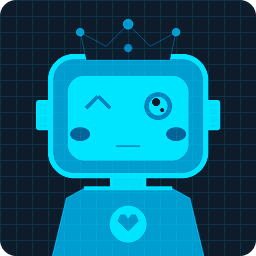
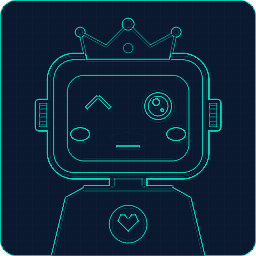
fix(filters): enforce dark outline retention in gameboy and retro pixel filters

diff --git a/src/bot_face/filters.py b/src/bot_face/filters.py
@@ -2,17 +2,12 @@
 
 from __future__ import annotations
 
-from typing import TYPE_CHECKING
-
 from PIL import Image, ImageDraw, ImageEnhance, ImageFilter, ImageOps
 
-if TYPE_CHECKING:
-    pass
-
 AVAILABLE_FILTERS: dict[str, str] = {
-    "8bit": "Classic chunky 8-bit retro arcade / NES pixel art style",
-    "16bit": "16-bit SNES / Genesis arcade pixel art style with dithering",
-    "gameboy": "Classic 4-shade olive green Nintendo Game Boy DMG-01 LCD screen",
+    "8bit": "Classic chunky 8-bit retro arcade / NES pixel art style with bold outlines",
+    "16bit": "16-bit SNES / Genesis arcade pixel art style with dithering and outline retention",
+    "gameboy": "Classic 4-shade olive green Nintendo Game Boy DMG-01 LCD screen with dark outlines",
     "crt": "Retro arcade CRT television monitor with horizontal scanlines",
     "blueprint": "Technical cyan/navy architectural blueprint style",
     "monochrome": "High-contrast clean black & white grayscale",
@@ -23,10 +18,10 @@ AVAILABLE_FILTERS: dict[str, str] = {
 
 # 4 classic Game Boy DMG-01 palette colors (darkest to lightest)
 GAMEBOY_PALETTE = [
-    (15, 56, 15),  # #0F380F
-    (48, 98, 48),  # #306230
-    (139, 172, 15),  # #8BAC0F
-    (155, 188, 15),  # #9BBC0F
+    (15, 56, 15),  # #0F380F (deepest dark green - outline / dark shadow)
+    (48, 98, 48),  # #306230 (dark olive green - shadow / accents)
+    (139, 172, 15),  # #8BAC0F (mid lime green - chassis / midtones)
+    (155, 188, 15),  # #9BBC0F (light greenish yellow - background / highlights)
 ]
 
 
@@ -36,23 +31,31 @@ def list_filters() -> list[str]:
 
 
 def apply_8bit_filter(img: Image.Image) -> Image.Image:
-    """Transform image into chunky 8-bit pixel art with 16-color quantization."""
+    """Transform image into 8-bit pixel art with 16-color quantization and outlines."""
     orig_w, orig_h = img.size
-    grid_size = 32
+    grid_size = 48
 
-    # Separate alpha channel
     rgba = img.convert("RGBA")
     r, g, b, a = rgba.split()
     rgb = Image.merge("RGB", (r, g, b))
 
-    # Downscale RGB with box sampling
-    small_rgb = rgb.resize((grid_size, grid_size), Image.Resampling.BILINEAR)
-    # Quantize to 16 colors
-    quantized = small_rgb.quantize(colors=16, method=Image.Quantize.MEDIANCUT).convert("RGB")
-    # Upscale back to original dimensions with nearest neighbor
-    pixelated_rgb = quantized.resize((orig_w, orig_h), Image.Resampling.NEAREST)
+    # Detect dark lines and contours in high-res
+    gray = ImageOps.grayscale(rgb)
+    dark_mask = gray.point(lambda p: 255 if p < 70 else 0, mode="1")
+    small_dark = dark_mask.resize((grid_size, grid_size), Image.Resampling.NEAREST)
 
-    # Downscale & upscale alpha with nearest neighbor to preserve crisp pixel edges
+    small_rgb = rgb.resize((grid_size, grid_size), Image.Resampling.BILINEAR)
+    quantized_rgb = small_rgb.quantize(
+        colors=16, method=Image.Quantize.FASTOCTREE, dither=Image.Dither.FLOYDSTEINBERG
+    ).convert("RGB")
+
+    # Enforce crisp dark outlines
+    for y in range(grid_size):
+        for x in range(grid_size):
+            if small_dark.getpixel((x, y)):
+                quantized_rgb.putpixel((x, y), (20, 20, 30))
+
+    pixelated_rgb = quantized_rgb.resize((orig_w, orig_h), Image.Resampling.NEAREST)
     small_a = a.resize((grid_size, grid_size), Image.Resampling.NEAREST)
     pixelated_a = small_a.resize((orig_w, orig_h), Image.Resampling.NEAREST)
 
@@ -61,7 +64,7 @@ def apply_8bit_filter(img: Image.Image) -> Image.Image:
 
 
 def apply_16bit_filter(img: Image.Image) -> Image.Image:
-    """Transform image into 16-bit arcade pixel art with 64-color dithering."""
+    """Transform image into 16-bit SNES arcade pixel art with dithering and outlines."""
     orig_w, orig_h = img.size
     grid_size = 64
 
@@ -69,14 +72,22 @@ def apply_16bit_filter(img: Image.Image) -> Image.Image:
     r, g, b, a = rgba.split()
     rgb = Image.merge("RGB", (r, g, b))
 
-    small_rgb = rgb.resize((grid_size, grid_size), Image.Resampling.BILINEAR)
-    quantized = small_rgb.quantize(
-        colors=64,
-        method=Image.Quantize.MAXCOVERAGE,
-        dither=Image.Dither.FLOYDSTEINBERG,
-    ).convert("RGB")
-    pixelated_rgb = quantized.resize((orig_w, orig_h), Image.Resampling.NEAREST)
+    # Detect dark contours
+    gray = ImageOps.grayscale(rgb)
+    dark_mask = gray.point(lambda p: 255 if p < 70 else 0, mode="1")
+    small_dark = dark_mask.resize((grid_size, grid_size), Image.Resampling.NEAREST)
 
+    small_rgb = rgb.resize((grid_size, grid_size), Image.Resampling.BILINEAR)
+    quantized_rgb = small_rgb.quantize(
+        colors=32, method=Image.Quantize.MEDIANCUT, dither=Image.Dither.FLOYDSTEINBERG
+    ).convert("RGB")
+
+    for y in range(grid_size):
+        for x in range(grid_size):
+            if small_dark.getpixel((x, y)):
+                quantized_rgb.putpixel((x, y), (15, 15, 25))
+
+    pixelated_rgb = quantized_rgb.resize((orig_w, orig_h), Image.Resampling.NEAREST)
     small_a = a.resize((grid_size, grid_size), Image.Resampling.NEAREST)
     pixelated_a = small_a.resize((orig_w, orig_h), Image.Resampling.NEAREST)
 
@@ -85,26 +96,45 @@ def apply_16bit_filter(img: Image.Image) -> Image.Image:
 
 
 def apply_gameboy_filter(img: Image.Image) -> Image.Image:
-    """Transform image into authentic 4-color Game Boy LCD screen pixel art."""
+    """Transform image into authentic 4-color Game Boy LCD pixel art with bold dark outlines."""
     orig_w, orig_h = img.size
-    grid_size = 36
+    grid_size = 48
 
     rgba = img.convert("RGBA")
     r, g, b, a = rgba.split()
     rgb = Image.merge("RGB", (r, g, b))
 
-    # Convert to grayscale and downscale
     gray = ImageOps.grayscale(rgb)
-    small_gray = gray.resize((grid_size, grid_size), Image.Resampling.BILINEAR)
 
-    # Map grayscale [0..255] into 4 Game Boy palette colors
-    out_rgb = Image.new("RGB", (grid_size, grid_size))
+    # 1. Edge & dark line detection to preserve silhouettes against the green background
+    edges = gray.filter(ImageFilter.FIND_EDGES)
+    edge_mask = edges.point(lambda p: 255 if p > 35 else 0, mode="1")
+    small_edges = edge_mask.resize((grid_size, grid_size), Image.Resampling.NEAREST)
+
+    dark_mask = gray.point(lambda p: 255 if p < 75 else 0, mode="1")
+    small_dark = dark_mask.resize((grid_size, grid_size), Image.Resampling.NEAREST)
+
+    # 2. Autocontrast for balanced dynamic range across 4 Game Boy shades
+    auto_gray = ImageOps.autocontrast(gray, cutoff=2)
+    small_gray = auto_gray.resize((grid_size, grid_size), Image.Resampling.BILINEAR)
+
+    # 3. 4-color palette quantization with Floyd-Steinberg dithering
+    pal_img = Image.new("P", (1, 1))
+    flat_pal: list[int] = []
+    for col in GAMEBOY_PALETTE:
+        flat_pal.extend(col)
+    flat_pal.extend([0] * (768 - len(flat_pal)))
+    pal_img.putpalette(flat_pal)
+
+    small_rgb = small_gray.convert("RGB")
+    quantized = small_rgb.quantize(palette=pal_img, dither=Image.Dither.FLOYDSTEINBERG)
+    out_rgb = quantized.convert("RGB")
+
+    # 4. Enforce darkest Game Boy green (#0F380F) on outlines so the bot pops off the background
     for y in range(grid_size):
         for x in range(grid_size):
-            pixel_val = small_gray.getpixel((x, y))
-            val = int(pixel_val) if isinstance(pixel_val, (int, float)) else 0
-            idx = min(3, max(0, val // 64))
-            out_rgb.putpixel((x, y), GAMEBOY_PALETTE[idx])
+            if small_edges.getpixel((x, y)) or small_dark.getpixel((x, y)):
+                out_rgb.putpixel((x, y), GAMEBOY_PALETTE[0])
 
     pixelated_rgb = out_rgb.resize((orig_w, orig_h), Image.Resampling.NEAREST)
     small_a = a.resize((grid_size, grid_size), Image.Resampling.NEAREST)
@@ -128,130 +158,114 @@ def apply_crt_filter(img: Image.Image) -> Image.Image:
     # Slight bloom
     bloom = rgba.filter(ImageFilter.GaussianBlur(radius=2))
     enhanced = Image.blend(rgba, bloom, alpha=0.25)
-
-    # Composite scanlines
-    result = Image.alpha_composite(enhanced, scanlines)
-    # Restore original alpha
-    result.putalpha(rgba.split()[3])
-    return result
+    enhanced.paste(scanlines, (0, 0), scanlines)
+    return enhanced
 
 
 def apply_blueprint_filter(img: Image.Image) -> Image.Image:
-    """Transform avatar into an architectural cyan blueprint style."""
+    """Transform image into architectural cyan/navy blueprint line art."""
     rgba = img.convert("RGBA")
-    w, h = rgba.size
-    alpha = rgba.split()[3]
+    orig_w, orig_h = rgba.size
+    r, g, b, a = rgba.split()
+    rgb = Image.merge("RGB", (r, g, b))
 
-    gray = ImageOps.grayscale(img.convert("RGB"))
-    # Invert and boost contrast for line art look
-    inv = ImageOps.invert(gray)
-    enhancer = ImageEnhance.Contrast(inv)
-    high_contrast = enhancer.enhance(1.8)
+    # Convert to grayscale and find edges
+    gray = ImageOps.grayscale(rgb)
+    edges = gray.filter(ImageFilter.FIND_EDGES)
+    edges_inv = ImageOps.invert(edges)
 
-    # Colorize onto navy background (#0D1B2A) with cyan lines (#00E5FF)
-    blueprint_rgb = ImageOps.colorize(
-        high_contrast,
-        black=(13, 27, 42),
-        white=(0, 229, 255),
-        mid=(0, 119, 182),
-    )
+    # Create navy blueprint background
+    blueprint = Image.new("RGB", (orig_w, orig_h), (10, 25, 47))
+    b_draw = ImageDraw.Draw(blueprint)
 
-    # Grid overlay
-    grid = Image.new("RGBA", (w, h), (0, 0, 0, 0))
-    g_draw = ImageDraw.Draw(grid)
-    grid_spacing = max(8, w // 16)
-    for x in range(0, w, grid_spacing):
-        g_draw.line([(x, 0), (x, h)], fill=(0, 229, 255, 30), width=1)
-    for y in range(0, h, grid_spacing):
-        g_draw.line([(0, y), (w, y)], fill=(0, 229, 255, 30), width=1)
+    # Subtle grid lines
+    for x in range(0, orig_w, 16):
+        b_draw.line([(x, 0), (x, orig_h)], fill=(20, 45, 75), width=1)
+    for y in range(0, orig_h, 16):
+        b_draw.line([(0, y), (orig_w, y)], fill=(20, 45, 75), width=1)
 
-    bp_rgba = blueprint_rgb.convert("RGBA")
-    combined = Image.alpha_composite(bp_rgba, grid)
-    combined.putalpha(alpha)
-    return combined
+    # Colorize inverted edges in electric cyan
+    cyan_lines = ImageOps.colorize(edges_inv, black="#00F5D4", white="#0A192F")
+    result = Image.blend(blueprint, cyan_lines, alpha=0.85)
+
+    res_r, res_g, res_b = result.split()
+    return Image.merge("RGBA", (res_r, res_g, res_b, a))
 
 
 def apply_monochrome_filter(img: Image.Image) -> Image.Image:
-    """Transform avatar into high-contrast black and white."""
+    """Convert avatar to high-contrast clean black & white grayscale."""
     rgba = img.convert("RGBA")
-    alpha = rgba.split()[3]
-    gray = ImageOps.grayscale(rgba.convert("RGB"))
-    enhancer = ImageEnhance.Contrast(gray)
-    boosted = enhancer.enhance(1.3)
-    mono_rgb = boosted.convert("RGB")
-    r, g, b = mono_rgb.split()
-    return Image.merge("RGBA", (r, g, b, alpha))
+    r, g, b, a = rgba.split()
+    rgb = Image.merge("RGB", (r, g, b))
+
+    gray = ImageOps.grayscale(rgb)
+    contrasted = ImageEnhance.Contrast(gray).enhance(1.4)
+    rgb_gray = contrasted.convert("RGB")
+    gr, gg, gb = rgb_gray.split()
+    return Image.merge("RGBA", (gr, gg, gb, a))
 
 
 def apply_sepia_filter(img: Image.Image) -> Image.Image:
-    """Transform avatar into a warm nostalgic sepia tone."""
+    """Apply warm vintage sepia photograph tone."""
     rgba = img.convert("RGBA")
-    alpha = rgba.split()[3]
-    gray = ImageOps.grayscale(rgba.convert("RGB"))
-    sepia_rgb = ImageOps.colorize(
-        gray,
-        black=(34, 18, 5),
-        white=(255, 240, 200),
-        mid=(140, 100, 60),
-    )
-    r, g, b = sepia_rgb.split()
-    return Image.merge("RGBA", (r, g, b, alpha))
+    r, g, b, a = rgba.split()
+    rgb = Image.merge("RGB", (r, g, b))
+
+    gray = ImageOps.grayscale(rgb)
+    sepia_rgb = ImageOps.colorize(gray, black="#2C1608", white="#FFF4D6")
+    sr, sg, sb = sepia_rgb.split()
+    return Image.merge("RGBA", (sr, sg, sb, a))
 
 
 def apply_dither_filter(img: Image.Image) -> Image.Image:
     """Apply 1-bit Floyd-Steinberg dot-matrix dithering."""
-    orig_w, orig_h = img.size
     rgba = img.convert("RGBA")
-    alpha = rgba.split()[3]
-    gray = ImageOps.grayscale(rgba.convert("RGB"))
-    small_gray = gray.resize((128, 128), Image.Resampling.BILINEAR)
-    dithered = small_gray.convert("1", dither=Image.Dither.FLOYDSTEINBERG)
-    dithered_full = dithered.resize((orig_w, orig_h), Image.Resampling.NEAREST).convert("RGB")
-    r, g, b = dithered_full.split()
-    return Image.merge("RGBA", (r, g, b, alpha))
+    r, g, b, a = rgba.split()
+    rgb = Image.merge("RGB", (r, g, b))
+
+    gray = ImageOps.grayscale(rgb)
+    contrasted = ImageEnhance.Contrast(gray).enhance(1.3)
+    dithered = contrasted.convert("1", dither=Image.Dither.FLOYDSTEINBERG).convert("RGBA")
+    dr, dg, db, _ = dithered.split()
+    return Image.merge("RGBA", (dr, dg, db, a))
 
 
 def apply_neon_glow_filter(img: Image.Image) -> Image.Image:
-    """Apply intense cyberpunk neon color saturation and bloom glow."""
+    """Apply intense cyberpunk bloom and color saturation boost."""
     rgba = img.convert("RGBA")
-    alpha = rgba.split()[3]
-    # Color saturation boost
-    color_enhancer = ImageEnhance.Color(rgba)
-    saturated = color_enhancer.enhance(1.8)
-    contrast_enhancer = ImageEnhance.Contrast(saturated)
-    boosted = contrast_enhancer.enhance(1.2)
+    enhanced = ImageEnhance.Color(rgba).enhance(1.6)
+    enhanced = ImageEnhance.Contrast(enhanced).enhance(1.2)
 
-    # Bloom blur layer
-    bloom = boosted.filter(ImageFilter.GaussianBlur(radius=4))
-    glow_combined = Image.blend(boosted, bloom, alpha=0.3)
-    glow_combined.putalpha(alpha)
-    return glow_combined
-
-
-FILTER_FUNCTIONS = {
-    "8bit": apply_8bit_filter,
-    "16bit": apply_16bit_filter,
-    "gameboy": apply_gameboy_filter,
-    "crt": apply_crt_filter,
-    "blueprint": apply_blueprint_filter,
-    "monochrome": apply_monochrome_filter,
-    "grayscale": apply_monochrome_filter,
-    "sepia": apply_sepia_filter,
-    "dither": apply_dither_filter,
-    "neon_glow": apply_neon_glow_filter,
-    "neon": apply_neon_glow_filter,
-}
+    bloom = enhanced.filter(ImageFilter.GaussianBlur(radius=4))
+    res = Image.blend(enhanced, bloom, alpha=0.35)
+    return res
 
 
 def apply_filter(img: Image.Image, filter_name: str | None) -> Image.Image:
-    """Apply a named retro look or image filter to a Pillow Image."""
-    if not filter_name or filter_name.lower() in ("none", "raw", "plain"):
+    """Apply the specified filter by name to the image."""
+    if filter_name is None or filter_name.lower() in ("none", ""):
         return img
 
-    norm_name = filter_name.lower().replace("-", "_").strip()
-    if norm_name not in FILTER_FUNCTIONS:
-        valid = ", ".join(sorted(AVAILABLE_FILTERS.keys()))
-        msg = f"Unknown filter '{filter_name}'. Available filters: {valid}"
-        raise ValueError(msg)
+    f_key = filter_name.lower().replace("-", "_").strip()
+    if f_key == "8bit":
+        return apply_8bit_filter(img)
+    if f_key == "16bit":
+        return apply_16bit_filter(img)
+    if f_key == "gameboy":
+        return apply_gameboy_filter(img)
+    if f_key == "crt":
+        return apply_crt_filter(img)
+    if f_key == "blueprint":
+        return apply_blueprint_filter(img)
+    if f_key == "monochrome":
+        return apply_monochrome_filter(img)
+    if f_key == "sepia":
+        return apply_sepia_filter(img)
+    if f_key == "dither":
+        return apply_dither_filter(img)
+    if f_key == "neon_glow":
+        return apply_neon_glow_filter(img)
 
-    return FILTER_FUNCTIONS[norm_name](img)
+    available = ", ".join(list_filters())
+    msg = f"Unknown filter '{filter_name}'. Available filters: {available}"
+    raise ValueError(msg)
